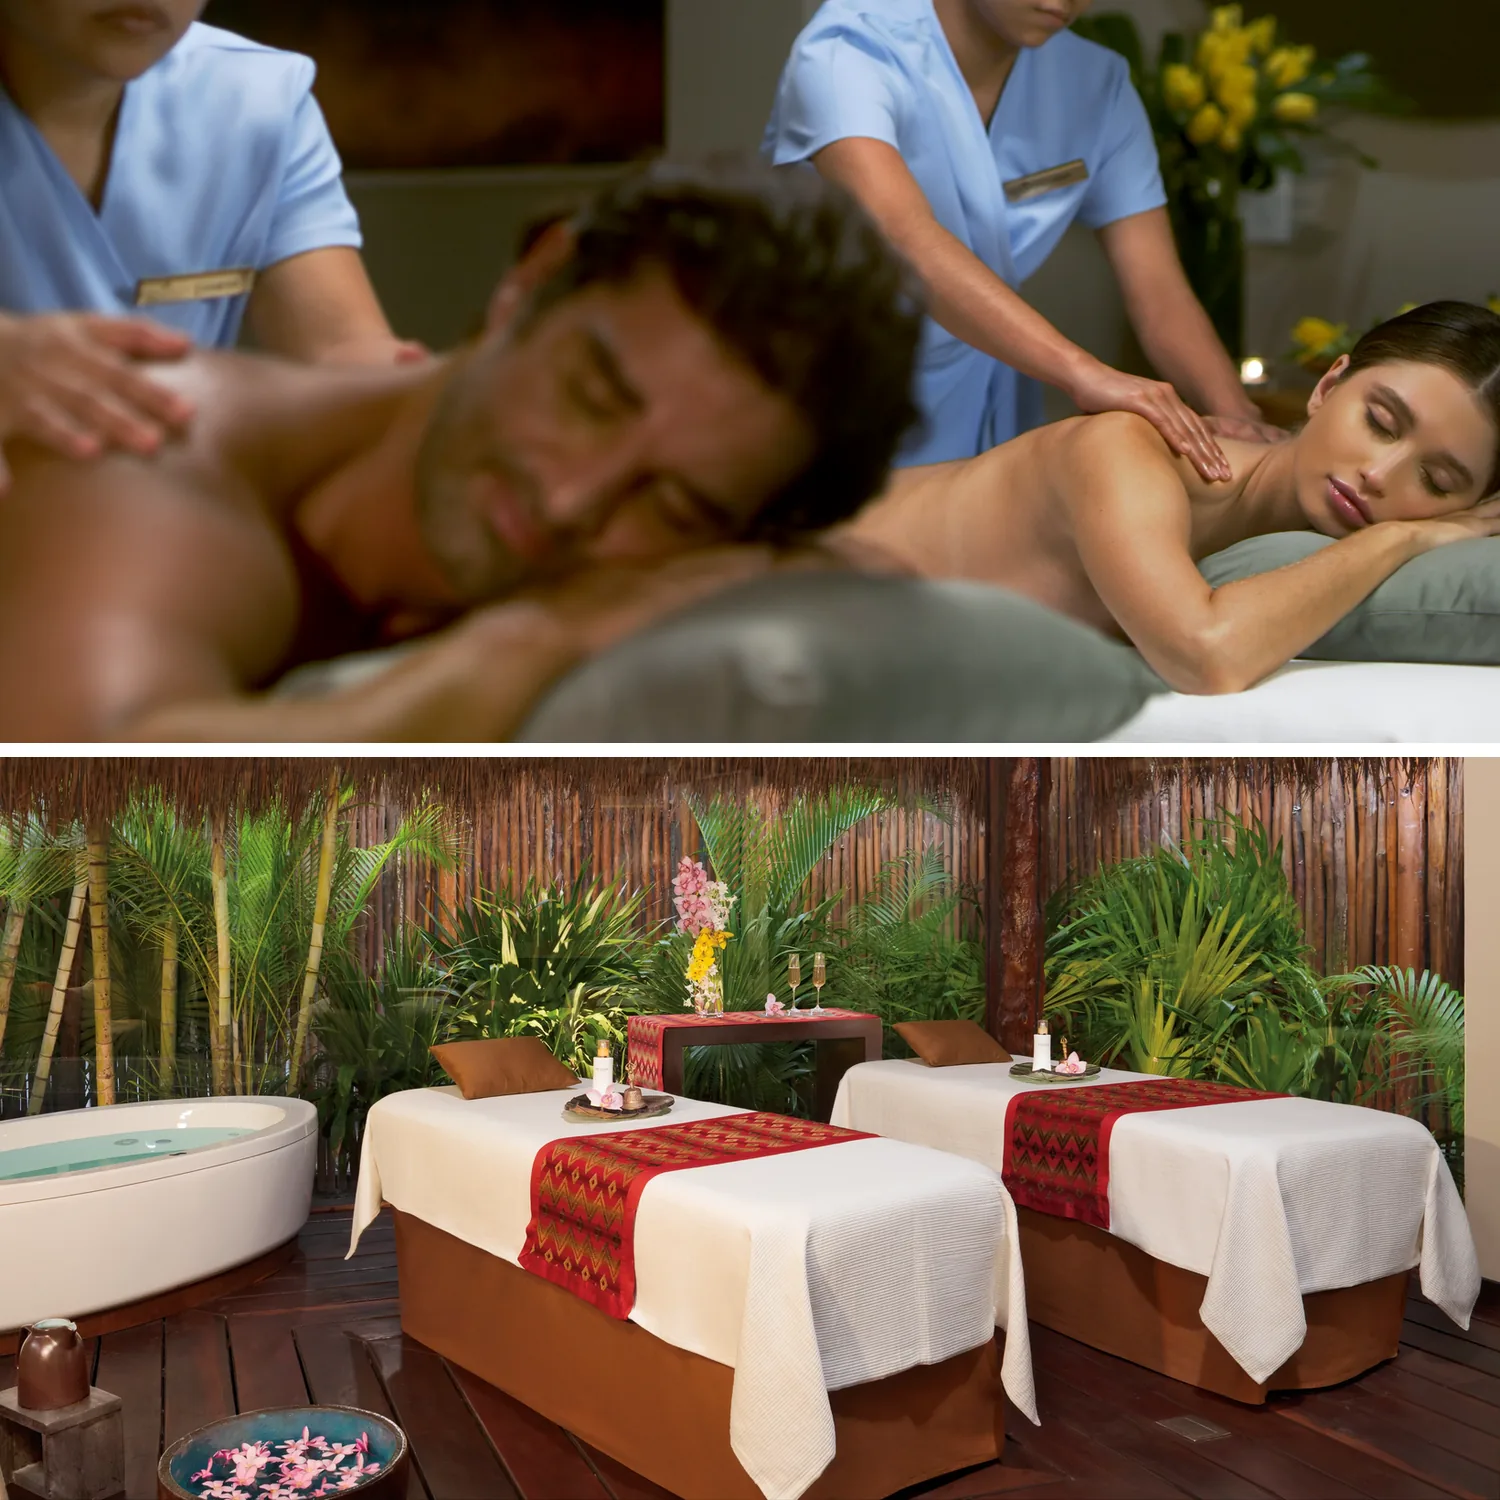
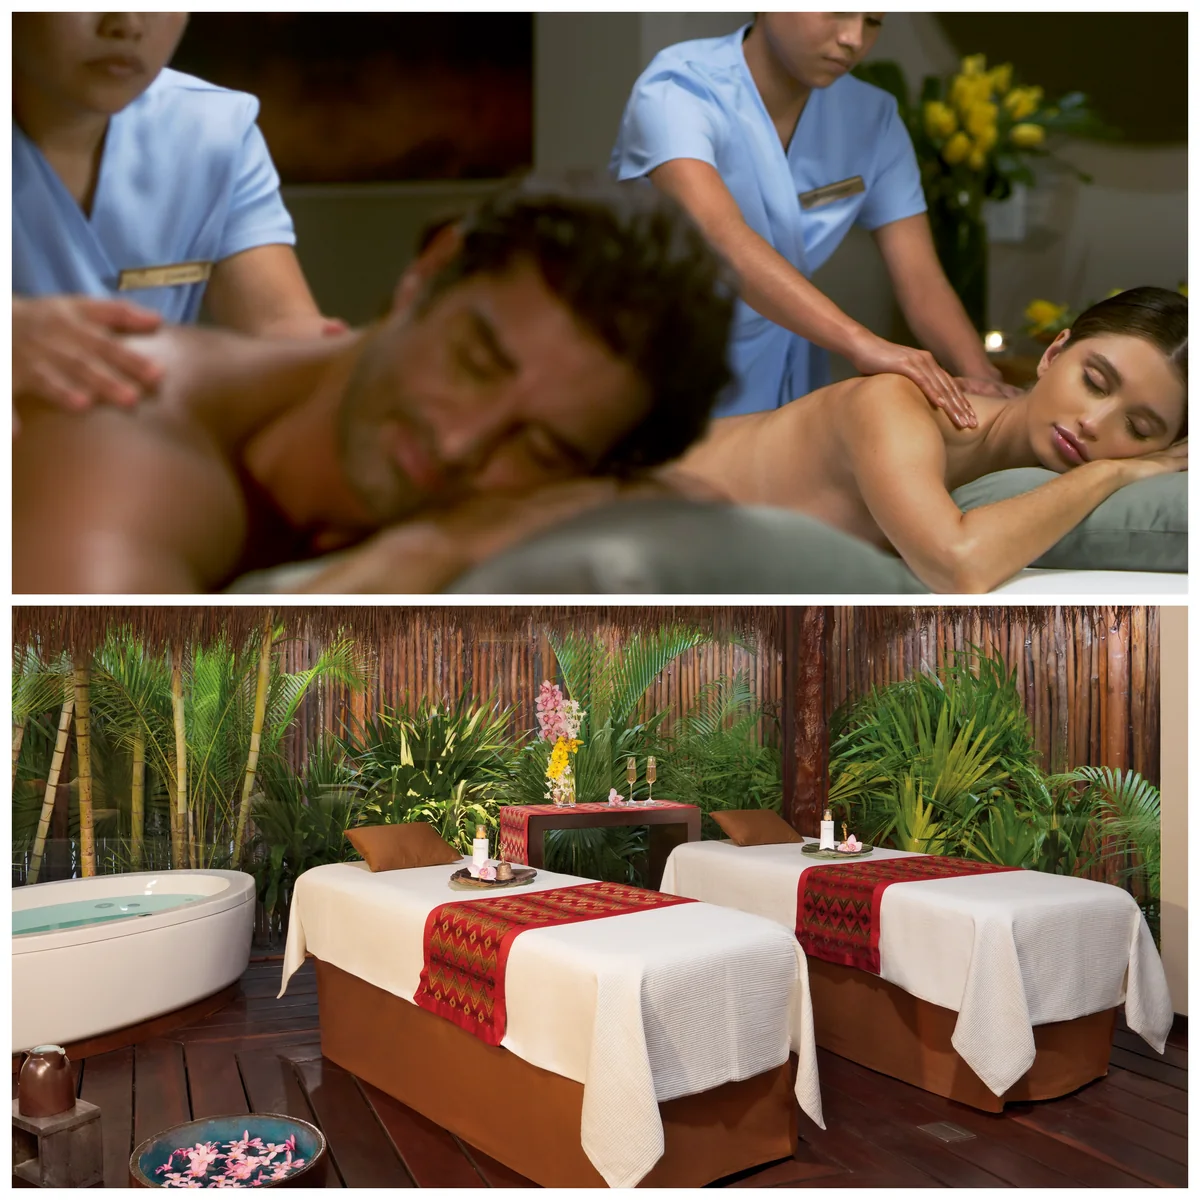
v29.8: miniaturas del masaje en pareja alineadas a los bocetos (cuadrada y vertical) + hidroterapia en alta calidad
Claude-Session: https://claude.ai/code/session_01CwU2AKiE9JS5KPBQ1KQZZR

diff --git a/index.html b/index.html
@@ -12,7 +12,7 @@
 <link rel="icon" type="image/png" href="icon-192.png">
 <link rel="apple-touch-icon" href="icon-192.png">
 <script>(function(){var t;try{t=localStorage.getItem('gs-theme')}catch(e){}if(t!=='light'&&t!=='dark')t=(window.matchMedia&&matchMedia('(prefers-color-scheme: dark)').matches)?'dark':'light';document.documentElement.setAttribute('data-theme',t);})();</script>
-<title>Gift Studio v29.7</title>
+<title>Gift Studio v29.8</title>
 <link rel="preconnect" href="https://fonts.googleapis.com">
 <link rel="preconnect" href="https://fonts.gstatic.com" crossorigin>
 <link href="https://fonts.googleapis.com/css2?family=Playfair+Display:wght@600;700&family=Poppins:ital,wght@0,400;0,500;0,600;1,700&display=swap" rel="stylesheet">
@@ -372,6 +372,7 @@ body.is-vendor .wneg{display:flex}
 .ph-fish{background-image:url(img/2.webp)}
 .sh-img.main.ph-fish{aspect-ratio:612/612}
 .ph-couples{background-image:url(img/3.webp)}
+.gc-img.ph-couples{background-image:url(img/3v.webp)}   /* v29.8: mosaico vertical del inicio */
 .sh-img.main.ph-couples{aspect-ratio:1/1}
 .ph-couples_a{background-image:url(img/4.webp)}
 .sh-img.main.ph-couples_a{aspect-ratio:1500/844}
@@ -3442,7 +3443,7 @@ function snapshot() {
     return { id, qty: sl.qty, kinds: it.kinds ? personKinds(it, sl) : undefined, cbd: it.kinds ? personCbd(it, sl) : undefined, manualOpt: sl.manual ? sl.opt : undefined,
       vipUnits: (v.units[id] || []).map(i => `${it.opts[i].pay}/${it.opts[i].b}`), regular: lineReg(it, sl) }; });
   return {
-    app: 'Gift Studio v29.7', time: new Date().toISOString(), lang: S.lang, mode: S.mode,
+    app: 'Gift Studio v29.8', time: new Date().toISOString(), lang: S.lang, mode: S.mode,
     guestBudget: hasBud() ? S.will : null, vouchers: S.step / VOUCHER, voucherValue: S.step, 
     cert: S.cart.cert, cart: lines, wish: S.wish,
     vip: { guestPays: v.cost, copays: v.pay, budgetUsed: v.used, overflow: v.overflow, left: S.will - v.cost, regularValue: v.value },
